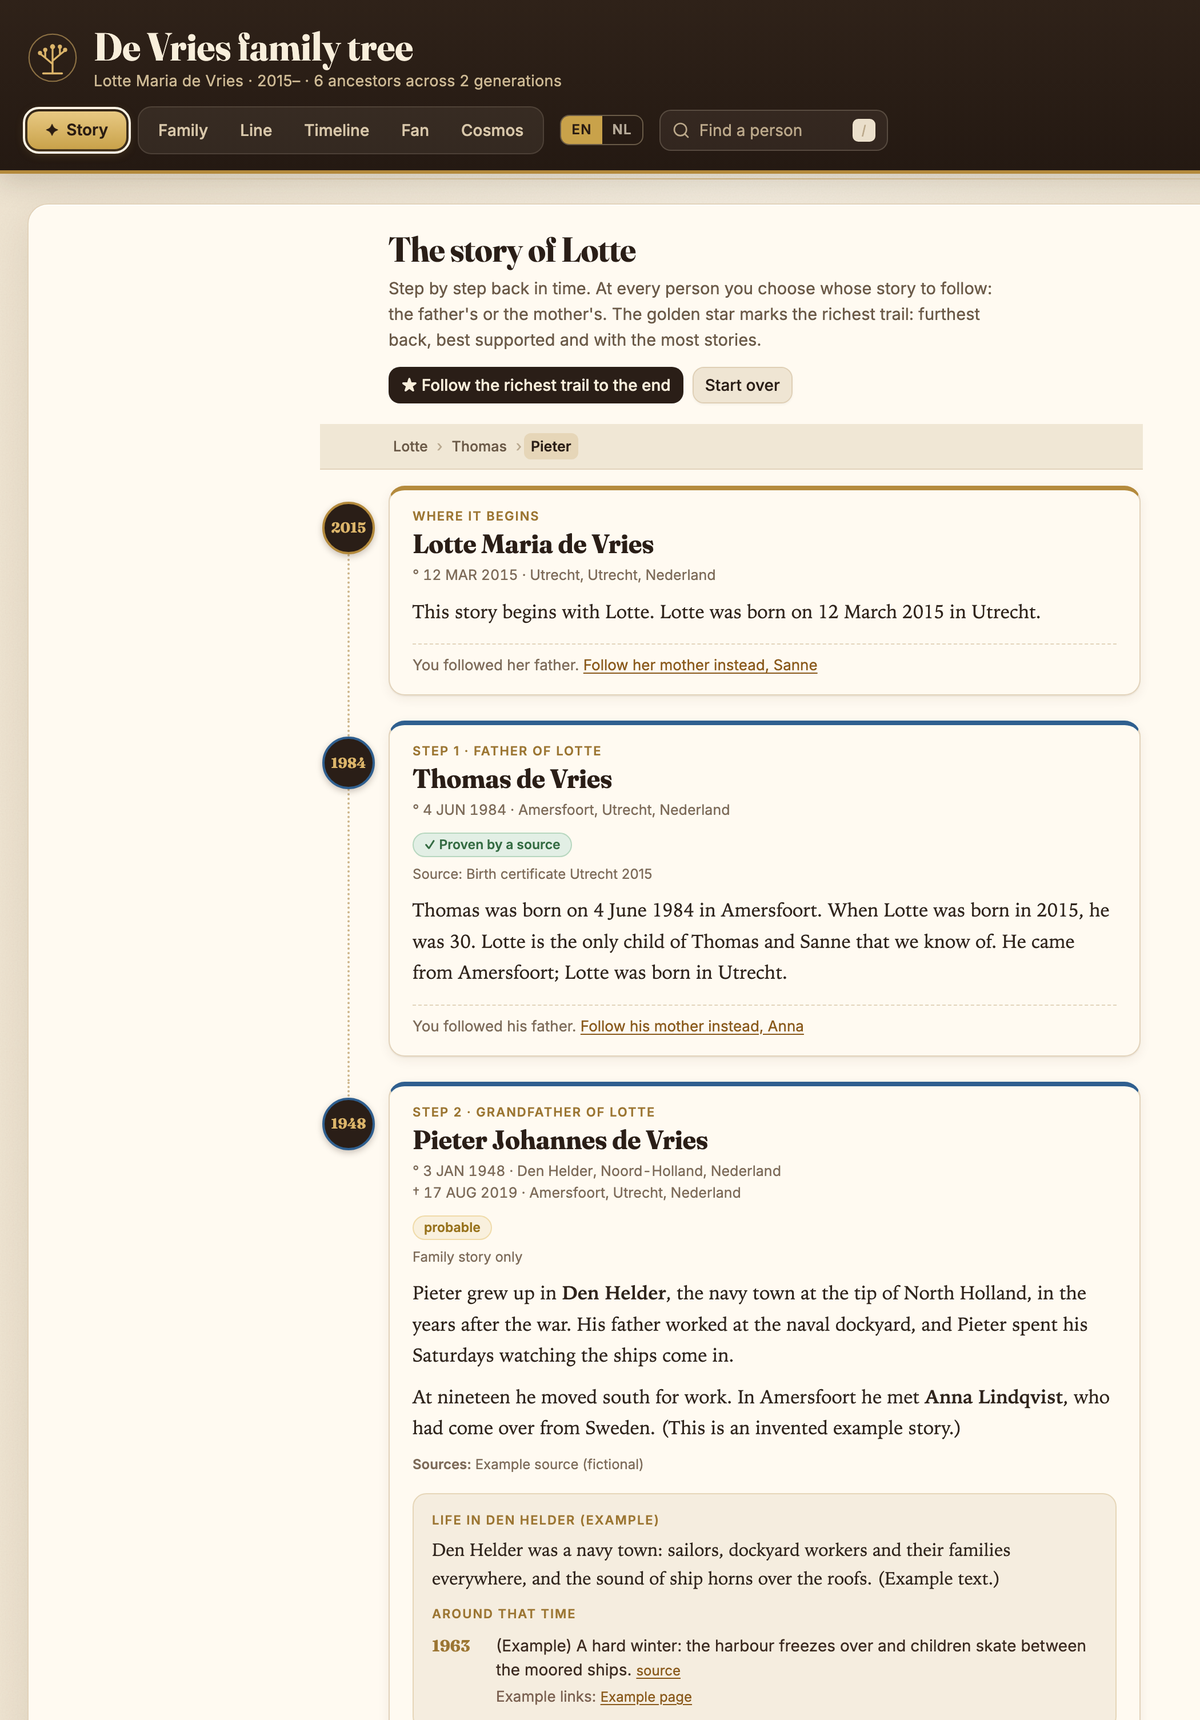
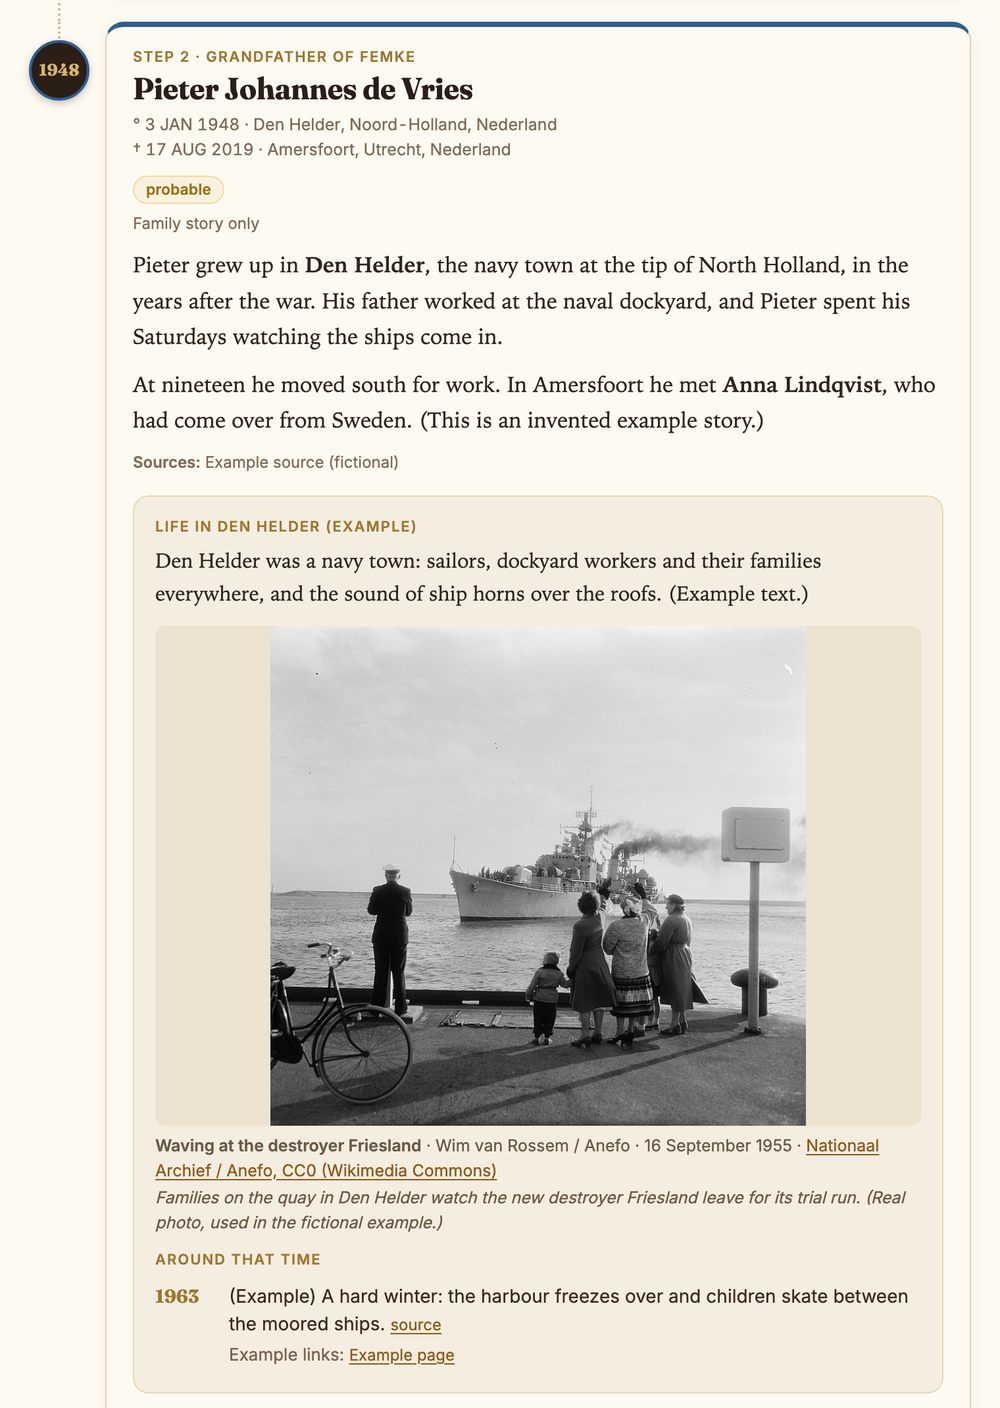
0.7.6: example start person is now Femke; real 1955 photo in the example Story
Den Helder, 16 September 1955, Wim van Rossem / Anefo, Nationaal Archief, CC0 via Wikimedia Commons.
New screenshots of the example family.

diff --git a/plugins/family-tree-research/skills/family-tree/scripts/make_viewer_data.py b/plugins/family-tree-research/skills/family-tree/scripts/make_viewer_data.py
@@ -11,7 +11,7 @@ Only a GEDCOM is required. Optional:
 
 Examples:
   python3 make_viewer_data.py tree.ged data.json
-  python3 make_viewer_data.py tree.ged data.json --start @I12@:Lotte --start "Thomas de Vries" --lang nl
+  python3 make_viewer_data.py tree.ged data.json --start @I12@:Femke --start "Thomas de Vries" --lang nl
   python3 make_viewer_data.py tree.ged data.json --csv relations.csv --regions regions.json --title "The De Vries family"
 
 Without --start the script picks the person with the most known ancestors.

diff --git a/plugins/family-tree-research/skills/family-tree/viewer/DATA-FORMAT.md b/plugins/family-tree-research/skills/family-tree/viewer/DATA-FORMAT.md
@@ -4,7 +4,7 @@ The viewer (`index.html`) contains nothing about a specific family. Everything c
 
 ```
 python3 make_viewer_data.py tree.ged data.json                       # minimal
-python3 make_viewer_data.py tree.ged data.json --start @I1@:Lotte \
+python3 make_viewer_data.py tree.ged data.json --start @I1@:Femke \
         --csv relations.csv --regions regions.json --title "The De Vries family" --lang en
 ```
 
@@ -19,7 +19,7 @@ python3 make_viewer_data.py tree.ged data.json --start @I1@:Lotte \
 | `taal` | `"en"` or `"nl"` | no | Language the viewer opens in. Default `"en"`. (`lang` also works.) Readers can switch with the EN/NL switch in the header; their choice is remembered per browser (localStorage). `?lang=en` or `?lang=nl` in the URL overrides both. |
 | `titel` | text or `{"en": …, "nl": …}` | no | Page title (an object follows the language switch). Without it: "{family name} family tree" / "Stamboom {familienaam}", or just "Family tree". |
 | `familienaam` | text | no | Family name, used for the title when `titel` is missing. |
-| `startpersonen` | list | no | Each item: `{"persoon": 0, "label": "Lotte"}` (`label` optional, defaults to the first name). The first one is the start person when the viewer opens. Other start people are chosen via search or "Make start person". Without the list the viewer starts at person 0. |
+| `startpersonen` | list | no | Each item: `{"persoon": 0, "label": "Femke"}` (`label` optional, defaults to the first name). The first one is the start person when the viewer opens. Other start people are chosen via search or "Make start person". Without the list the viewer starts at person 0. |
 | `startpersoon_per_weergave` | object | no | A different start person for one view, e.g. `{"stamlijn": 2}`. Views: `familie` (Family), `stamlijn` (Line), `verhaal` (Story), `tijdlijn` (Timeline), `waaier` (Fan), `kosmos` (Cosmos). |
 | `levenden_tonen` | yes/no | no | Default (missing or `true`): the viewer shows everything. `false` hides dates and places of living people. |
 | `regios` | object | no | Region codes: `{code: {"naam": …, "kleur": "#hex"}}` (`naam` = name, `kleur` = colour). `naam` can be text or `{"en": …, "nl": …}`. Use a country or country-region code (`NL`, `NL-ZH`, `BE-VAN`, `SE-M`). The viewer colours by **country of birth**: it takes the part before the hyphen (`NL-ZH` → `NL`). For well-known countries (NL, BE, DE, SE, NO, DK, FR, GB, US, ID) the viewer has its own names and colours; for other codes it uses `naam` and `kleur` from this table. |
@@ -115,10 +115,10 @@ Someone counts as living if no death or burial is recorded and they were born le
   "versie": 2,
   "taal": "en",
   "familienaam": "de Vries",
-  "startpersonen": [{"persoon": 0, "label": "Lotte"}],
+  "startpersonen": [{"persoon": 0, "label": "Femke"}],
   "regios": {"NL": {"naam": {"en": "Netherlands", "nl": "Nederland"}, "kleur": "#e07a2f"}},
   "personen": [
-    {"n": "Lotte Maria de Vries", "g": "Lotte Maria", "s": "de Vries", "x": "F", "f": 1, "m": 2, "levend": true,
+    {"n": "Femke Johanna de Vries", "g": "Femke Johanna", "s": "de Vries", "x": "F", "f": 1, "m": 2, "levend": true,
      "c": {"f": ["zeker", "Birth certificate 2015", ""], "m": ["zeker", "Birth certificate 2015", ""]}},
     {"n": "Thomas de Vries", "g": "Thomas", "s": "de Vries", "x": "M", "f": 3, "m": 4, "sp": [2], "ch": [0], "levend": true},
     {"n": "Sanne", "g": "Sanne", "x": "F", "sp": [1], "ch": [0], "levend": true},
@@ -134,7 +134,7 @@ Someone counts as living if no death or burial is recorded and they were born le
 
 ```
 python3 make_viewer_data.py examples/example.ged examples/example-data.json \
-  --csv examples/example-relations.csv --regions examples/regions-basic.json --start @I1@:Lotte --start @I2@:Thomas
+  --csv examples/example-relations.csv --regions examples/regions-basic.json --start @I1@:Femke --start @I2@:Thomas
 ```
 
 ## Stories (`verhaal`, for the Story view)

diff --git a/CLAUDE.md b/CLAUDE.md
@@ -18,7 +18,8 @@ plugins/family-tree-research/
     viewer/index.html                the viewer (single file, ~320 kB, minified-ish JS; English + Dutch via I18N table)
     viewer/DATA-FORMAT.md            data.json format (field names are Dutch, documented in English)
     examples/                        7-person example family + regions-basic.json, example-stories.json and
-                                     example-zeitgeist.json (fictional, to test the Story view; no images)
+                                     example-zeitgeist.json (fictional, to test the Story view) and one real CC0 photo in
+                                     examples/media/tijdgeest/ (Den Helder, 1955, Anefo)
 README.md, LICENSE (MIT)
 ```
 
@@ -42,13 +43,14 @@ S=plugins/family-tree-research/skills/family-tree
 python3 -I $S/scripts/make_viewer_data.py $S/examples/example.ged /tmp/ex.json \
   --csv $S/examples/example-relations.csv --regions $S/examples/regions-basic.json \
   --stories $S/examples/example-stories.json --zeitgeist $S/examples/example-zeitgeist.json \
-  --start @I1@:Lotte --start @I2@:Thomas
+  --start @I1@:Femke --start @I2@:Thomas
 python3 -I $S/scripts/gedcom_tool.py check $S/examples/example.ged /tmp/check.md --start @I1@
 python3 -I $S/scripts/gedcom_tool.py check $S/examples/example.ged /tmp/check-nl.md --start @I1@ --lang nl
 python3 -I $S/scripts/standalone_viewer.py $S/viewer/index.html /tmp/ex.json /tmp/ex.html
+cp -R $S/examples/media /tmp/media   # zeitgeist images are not embedded; they load from media/ next to the HTML
 ```
 
-Then open `/tmp/ex.html` (or screenshot it with Playwright, desktop + mobile) and click through all tabs: Family, Line, Story, Timeline, Fan, Cosmos. In the Story view, follow Lotte → Thomas → Pieter: Pieter must show his own (example) story, a "Life in Den Helder" block and the 1963 example event with a source link and an "Example links" line; Anna's template text must say she lived through the Second World War "roughly from age 15 to 20". In English, no Dutch words may appear (e.g. "bron"). Check the browser console for errors. Also test with `--lang nl`. If you touched `gedcom_tool.py new/add`, test them with both English and Dutch JSON keys (formats in references/onboarding.md and references/gedcom-tool.md).
+Then open `/tmp/ex.html` (or screenshot it with Playwright, desktop + mobile) and click through all tabs: Family, Line, Story, Timeline, Fan, Cosmos. In the Story view, follow Femke → Thomas → Pieter: Pieter must show his own (example) story, a "Life in Den Helder" block with the 1955 photo, and the 1963 example event with a source link and an "Example links" line; Anna's template text must say she lived through the Second World War "roughly from age 15 to 20". In English, no Dutch words may appear (e.g. "bron"). Check the browser console for errors. Also test with `--lang nl`. If you touched `gedcom_tool.py new/add`, test them with both English and Dutch JSON keys (formats in references/onboarding.md and references/gedcom-tool.md).
 
 If `examples/example-data.json` should change, regenerate it with the first command (output to `$S/examples/example-data.json`).
 

diff --git a/README.md b/README.md
@@ -4,7 +4,7 @@ I've been researching my own family tree with Claude, including the Swedish orig
 
 Start with what you know (yourself, your parents, your grandparents) or with a GEDCOM export from Ancestry or MyHeritage. Claude searches public archives, notes for each ancestor how sure it is, and builds an interactive family tree. It works in **English and Dutch**. My favourite part is the Story view: you walk back through the generations and read how each of them lived.
 
-![The Story view, with the example family that comes with the plugin](docs/screenshots/story.png)
+![The Story view: a grandfather's chapter with his story, how sure it is, life in his town and a 1955 photo. Example family that comes with the plugin.](docs/screenshots/story.png)
 
 Not every archive lets Claude in. When one doesn't, Claude tells you exactly what to look up and asks for a screenshot.
 

diff --git a/plugins/family-tree-research/skills/family-tree/SKILL.md b/plugins/family-tree-research/skills/family-tree/SKILL.md
@@ -11,7 +11,7 @@ description: >
   researches ancestors in open archives with a source for every link, and
   publishes an interactive family-tree viewer. Works in English and Dutch.
 metadata:
-  version: "0.7.5"
+  version: "0.7.6"
 ---
 
 # Family-tree research, hand in hand
